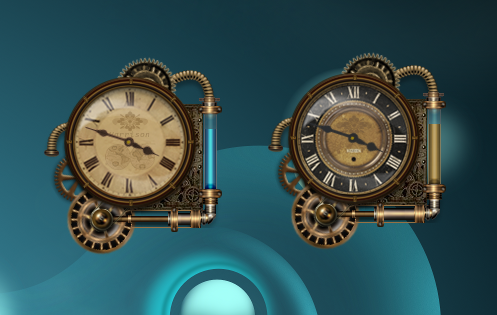
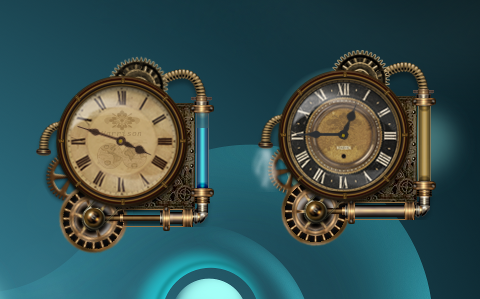
back more exact

diff --git a/plasmoid/contents/clock/Clock.qml b/plasmoid/contents/clock/Clock.qml
@@ -8,20 +8,25 @@ Item {
     property int minutes
     property int seconds
     property alias wt: wt.source
+    property alias shtof: shtof.height
 
     Image {
-        x: -18; y: -18
+        x: -11; y: -18
         source: "bh10.png"
 
-        Image { x: 82; y: 19; source: "bh11.png" }
+        Image { x: 74; y: 18; source: "bh11.png" }
 
         Rectangle {
-            x: 56; y: 48
+            id: shtof
             width: 17; height: 70
             color: "transparent"
+            anchors.bottom: parent.bottom
+            anchors.bottomMargin: 50
+            anchors.horizontalCenterOffset: -19
+            anchors.horizontalCenter: parent.horizontalCenter
             clip: true
 
-            Image { id:wt; x: 1; y: 25; source: "g.png" }
+            Image { id:wt; x: 1; y: 0; anchors.bottomMargin: 0; anchors.bottom: parent.bottom; source: "g.png" }
         }
     }
     //*
@@ -152,7 +157,7 @@ Item {
         }
         transitions: Transition {
             NumberAnimation { target: rotation; property: "angle";  duration: 900 }
-            NumberAnimation { properties: "x, y "; duration: 900 }
+            NumberAnimation { properties: "x, y "; duration: 1700 }
         }
     }
 

diff --git a/plasmoid/contents/back/Back.qml b/plasmoid/contents/back/Back.qml
@@ -6,8 +6,8 @@ Item {
     property alias gear: gear.rotation
 
     Image { id: br;          x: 80;  y: 43;  source: "br1.png"  }
-    Image { id: shlang_up;   x: 131; y: 0;   source: "shlang_upr.png" }
-    Image { id: shlang_left; x: 7;   y: 49;  source: "shlang_leftr.png" }
+    Image { id: shlang_up;   x: 131; y: 0;   source: "shlang_up.png" }
+    Image { id: shlang_left; x: 7;   y: 49;  source: "shlang_left.png" }
     Image { id: shlang_down; x: 166; y: 137; source: "shlang_downr1.png" }
 
     Image {

diff --git a/plasmoid/contents/porshen/Porshen.qml b/plasmoid/contents/porshen/Porshen.qml
@@ -7,6 +7,9 @@ Item {
 
     property alias gear: gear.rotation
     property alias gear_up: gear_up.rotation
+
+    Image { id: image1; x: -52; y: -72; rotation: 45; source: "../clock/mh1.png" }
+
     Image {
         id: gear
         x: -15; y: -35
@@ -44,6 +47,7 @@ Item {
         }
         Image { id: end; x: 9; y: -3; source: "ps.png" }
     }
+
 
 
 

diff --git a/plasmoid/contents/kolba/Kolba.qml b/plasmoid/contents/kolba/Kolba.qml
@@ -92,6 +92,7 @@ Item {
                 clock.wt = "../clock/" + main.water + ".png";
                 if(main.water == "b")    main.water = "g"
                                  else    main.water = "b"
+                clock.shtof = sh
                 ht = sh
 
             }
